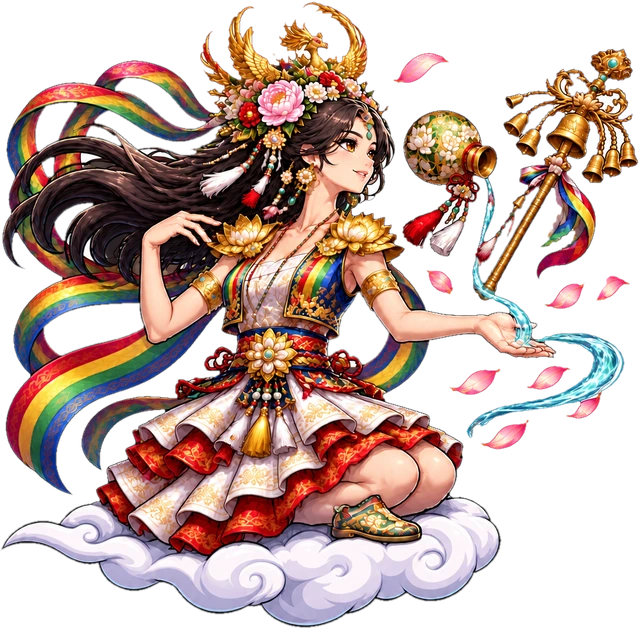
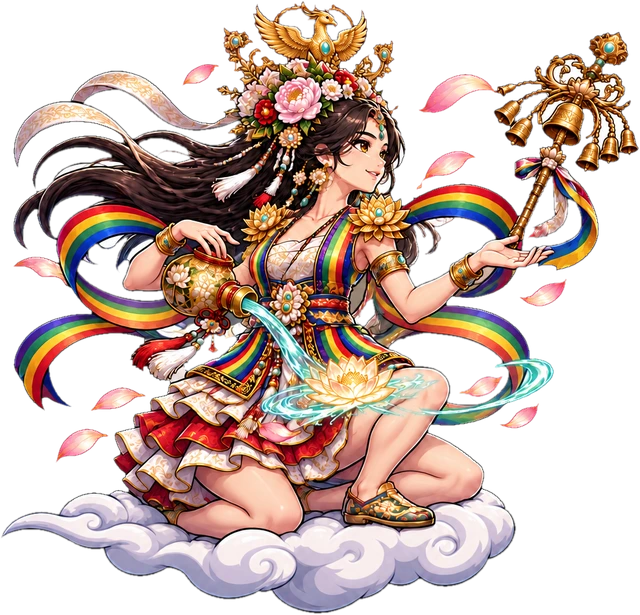
그림: 바리공주 각성 게임 그림을 원본 게임 그림 고쳐 그리기로 교체, 규칙 추가
Claude-Session: https://claude.ai/code/session_01X3WCR5nTXLkTaQuYbPMPiQ

diff --git a/game-design/art/그림_규칙.md b/game-design/art/그림_규칙.md
@@ -90,3 +90,4 @@ Copy the EXACT art style of the first reference image: same rendering, same bold
 - 무기 쥐는 손은 사용자가 준 **손 모양 참고 사진**(피규어, Higgsfield c31c4bea-6f5d-4614-9503-137e9760067f: 두 주먹을 앞뒤로, 네 손가락이 봉을 완전히 감싸고 엄지는 반대편, 손목은 팔과 일직선)을 손 참고로 넣는다. "손 모양만, 그림체는 따르지 말 것"이라고 적는다.
 - **손처럼 작은 부분을 고칠 때는 전체 그림을 고치지 말고, 그 부분만 크게 잘라 고친 뒤 원래 그림에 붙인다**(전체 고치기는 손을 거의 그대로 둠, 11/21 장승 자매 3번 실패 → 잘라 고치기 1번에 성공).
 - **같은 부분을 두 번 고쳐도 안 바뀌면 더 돌리지 않고 사용자에게 먼저 말한다.** 다시 그린 뒤에는 이전 판과 확대 비교해서 실제로 바뀐 것만 보고한다.
+- **각성 게임 그림은 자세를 새로 정하지 않는다.** 원본 게임 그림 한 장만 넣고 "EDIT this exact image… 자세·크기·얼굴 그대로, 옷과 소품만" 으로 고친다(11/21 바리공주: 새 자세로 그린 판은 체형·크기가 바뀌어 반려, 원본 고치기 판은 통과).

diff --git a/game-design/art/바리공주각성/README.md b/game-design/art/바리공주각성/README.md
@@ -11,3 +11,4 @@
 - 사용자: 물이 손에서 갑자기 생김, 병에서 나와야 함 → 오른쪽 부분만 잘라 고쳐(0329e7d1) 병 입에서 물이 쏟아져 손바닥 위로 흐르게, 위치 맞춰 붙임 → `B6_jar_water` — 검토 중
 - 사용자 판정(B6): 확정 → 각성 일러스트 `../게임용/aw14.webp`
 - 게임 그림 `../게임용/aw14p.webp`(280px)/`aw14p_hi.webp`: 첫 참고 원본 게임 그림 p14, 옷 B3 디자인(원본 색). 구름 위 무릎, 떠 있는 병에서 물이 손바닥 위로. job cf39e0a4 → 배경 흰색으로 고쳐(201172b9) 직접 지움
+- 사용자: 게임 그림 그림체가 또 틀어짐(자세를 새로 지정했던 판 cf39e0a4 폐기) → **원본 게임 그림 한 장을 그대로 고쳐 그리기**(자세·크기·얼굴 유지, 옷과 손 소품만 변경): job e10bea02-b562-480d-9d08-af5d419a3149, 배경 흰색 6ac7c02e → `../게임용/aw14p.webp` 교체
